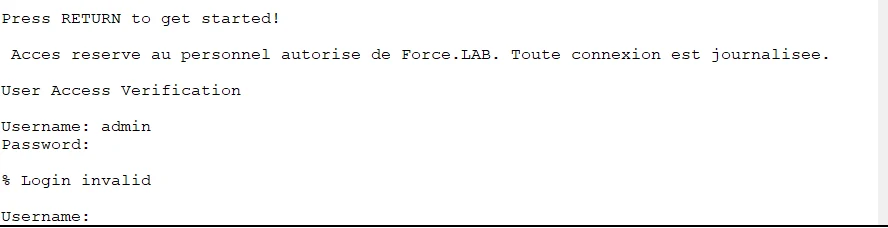
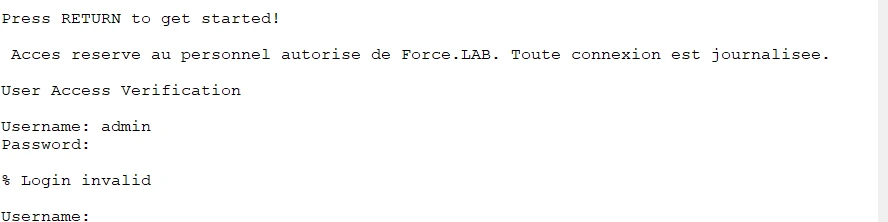
Ajout du projet Cisco Force.LAB

diff --git a/projets/cisco-forcelab-multisite.html b/projets/cisco-forcelab-multisite.html
@@ -67,6 +67,7 @@
 
 .proof-code{margin:0;padding:1.1rem 1.2rem;border-radius:18px;background:#0f172a;color:#e2e8f0;font:600 .7rem/1.6 ui-monospace,SFMono-Regular,Consolas,monospace;overflow-x:auto;white-space:pre}
 .project-section code{padding:.1rem .35rem;border-radius:6px;background:#eef3fb;font-size:.9em}
+.proof-card.wide{grid-template-columns:1fr}
 @media(max-width:1100px){.proof-card{grid-template-columns:1fr}.proof-content h3{font-size:1.25rem}}
 @media(max-width:900px){.project-hero-grid{grid-template-columns:1fr}.project-metrics{grid-template-columns:repeat(2,1fr)}.feature-grid{grid-template-columns:1fr}.gallery{grid-template-columns:1fr}.proof-group > summary{align-items:flex-start;flex-direction:column}}
 @media(max-width:580px){.project-metrics{grid-template-columns:1fr}.proof-stack{padding:1rem}.proof-card{padding:.8rem}.project-hero{padding-top:calc(var(--nav-h) + 60px)}}
@@ -94,7 +95,7 @@
 <a class="button button-secondary" href="../projets-scolaires.html">Retour aux projets</a>
 </div>
 </div>
-<div class="hero-visual"><img src="../assets/images/projects/cisco-forcelab/topologie-forcelab.webp" alt="Topologie du réseau Force.LAB : Internet, siège de Paris et agence de Lyon" width="1021" height="657"></div>
+<div class="hero-visual"><img src="../assets/images/projects/cisco-forcelab/architecture-forcelab.png" alt="Architecture du réseau Force.LAB : Internet, siège de Paris et agence de Lyon"></div>
 </div>
 
 <div class="project-metrics">
@@ -130,8 +131,8 @@
 <div class="proof-stack">
 
 <figure class="proof-card">
-<div class="proof-image"><button type="button" data-lightbox-src="../assets/images/projects/cisco-forcelab/topologie-forcelab.webp" data-lightbox-caption="Topologie finale Force.LAB dans Cisco Packet Tracer"><img src="../assets/images/projects/cisco-forcelab/topologie-forcelab.webp" alt="Topologie Force.LAB" loading="lazy" width="1021" height="657"></button><div class="proof-links"><a class="proof-link" href="../assets/images/projects/cisco-forcelab/topologie-forcelab.webp" target="_blank" rel="noopener">Ouvrir l'image</a></div></div>
-<figcaption class="proof-content"><span class="proof-index">01</span><h3>Topologie en trois zones</h3><p>Le siège est construit autour de deux cœurs reliés à chaque switch d’accès ; l’agence est reliée par deux liaisons série. Chaque VLAN a son /24, avec la passerelle toujours en .1.</p><ul class="proof-list"><li>Siège : VLAN 10 Admin, 20 Tech, 30 Serveurs, 40 Wi-Fi salariés, 50 Wi-Fi invités, 99 Management</li><li>Agence : VLAN 20 et 99 derrière R-BR</li><li>Adresses publiques prises dans les plages de documentation</li></ul><div class="proof-tags"><span class="proof-tag">Plan d’adressage</span><span class="proof-tag">VLAN</span></div></figcaption>
+<div class="proof-image"><button type="button" data-lightbox-src="../assets/images/projects/cisco-forcelab/topologie-packet-tracer.png" data-lightbox-caption="Maquette finale Force.LAB dans Cisco Packet Tracer"><img src="../assets/images/projects/cisco-forcelab/topologie-packet-tracer.png" alt="Maquette Force.LAB dans Packet Tracer" loading="lazy"></button><div class="proof-links"><a class="proof-link" href="../assets/images/projects/cisco-forcelab/topologie-packet-tracer.png" target="_blank" rel="noopener">Ouvrir l'image</a></div></div>
+<figcaption class="proof-content"><span class="proof-index">01</span><h3>Maquette Packet Tracer en trois zones</h3><p>Le siège est construit autour de deux cœurs reliés à chaque switch d’accès ; l’agence est reliée par deux liaisons série. Chaque VLAN a son /24, avec la passerelle toujours en .1.</p><ul class="proof-list"><li>Siège : VLAN 10 Admin, 20 Tech, 30 Serveurs, 40 Wi-Fi salariés, 50 Wi-Fi invités, 99 Management</li><li>Agence : VLAN 20 et 99 derrière R-BR</li><li>Adresses publiques prises dans les plages de documentation</li></ul><div class="proof-tags"><span class="proof-tag">Plan d’adressage</span><span class="proof-tag">VLAN</span></div></figcaption>
 </figure>
 
 <figure class="proof-card">
@@ -166,12 +167,12 @@ R-BR : ip route 0.0.0.0 0.0.0.0 10.0.0.13 200</pre></div>
 <div class="proof-stack">
 
 <figure class="proof-card">
-<div class="proof-image"><button type="button" data-lightbox-src="../assets/images/projects/cisco-forcelab/dhcp-pc-tech1.webp" data-lightbox-caption="PC-TECH1 reçoit sa configuration IP par DHCP"><img src="../assets/images/projects/cisco-forcelab/dhcp-pc-tech1.webp" alt="Configuration DHCP de PC-TECH1" loading="lazy" width="1053" height="370"></button><div class="proof-links"><a class="proof-link" href="../assets/images/projects/cisco-forcelab/dhcp-pc-tech1.webp" target="_blank" rel="noopener">Ouvrir l'image</a></div></div>
+<div class="proof-image"><button type="button" data-lightbox-src="../assets/images/projects/cisco-forcelab/dhcp-pc-tech1.webp" data-lightbox-caption="PC-TECH1 reçoit sa configuration IP par DHCP"><img src="../assets/images/projects/cisco-forcelab/dhcp-pc-tech1.webp" alt="Configuration DHCP de PC-TECH1" loading="lazy"></button><div class="proof-links"><a class="proof-link" href="../assets/images/projects/cisco-forcelab/dhcp-pc-tech1.webp" target="_blank" rel="noopener">Ouvrir l'image</a></div></div>
 <figcaption class="proof-content"><span class="proof-index">04</span><h3>DHCP centralisé avec relais</h3><p>Tous les pools du siège sont sur le routeur R-HQ. Les SVI des cœurs relaient les requêtes vers sa loopback, joignable par les deux cœurs ; l’agence garde un pool local pour rester autonome.</p><ul class="proof-list"><li>PC-TECH1 obtient 10.10.20.23</li><li>Passerelle : l’adresse virtuelle HSRP 10.10.20.1</li><li>DNS : le serveur interne 10.10.30.10</li></ul><div class="proof-tags"><span class="proof-tag">DHCP</span><span class="proof-tag">ip helper-address</span></div></figcaption>
 </figure>
 
 <figure class="proof-card">
-<div class="proof-image"><button type="button" data-lightbox-src="../assets/images/projects/cisco-forcelab/nat-statique-pc-ext.webp" data-lightbox-caption="Depuis Internet, PC-EXT ouvre www.force.lab"><img src="../assets/images/projects/cisco-forcelab/nat-statique-pc-ext.webp" alt="Page intranet ouverte depuis Internet" loading="lazy" width="1047" height="393"></button><div class="proof-links"><a class="proof-link" href="../assets/images/projects/cisco-forcelab/nat-statique-pc-ext.webp" target="_blank" rel="noopener">Ouvrir l'image</a></div></div>
+<div class="proof-image"><button type="button" data-lightbox-src="../assets/images/projects/cisco-forcelab/nat-statique-pc-ext.webp" data-lightbox-caption="Depuis Internet, PC-EXT ouvre www.force.lab"><img src="../assets/images/projects/cisco-forcelab/nat-statique-pc-ext.webp" alt="Page intranet ouverte depuis Internet" loading="lazy"></button><div class="proof-links"><a class="proof-link" href="../assets/images/projects/cisco-forcelab/nat-statique-pc-ext.webp" target="_blank" rel="noopener">Ouvrir l'image</a></div></div>
 <figcaption class="proof-content"><span class="proof-index">05</span><h3>Publication du serveur web par NAT statique</h3><p>Un poste situé sur Internet ouvre www.force.lab : le DNS public renvoie l’adresse 203.0.113.5, que R-HQ traduit vers le serveur interne SRV-WEB.</p><ul class="proof-list"><li>NAT statique 10.10.30.10 vers 203.0.113.5</li><li>PAT sur le pool 203.0.113.1 à .4 pour les utilisateurs</li><li>ACL anti-usurpation en entrée sur l’interface Internet</li></ul><div class="proof-tags"><span class="proof-tag">NAT / PAT</span><span class="proof-tag">DNS</span></div></figcaption>
 </figure>
 
@@ -183,17 +184,17 @@ R-BR : ip route 0.0.0.0 0.0.0.0 10.0.0.13 200</pre></div>
 <div class="proof-stack">
 
 <figure class="proof-card">
-<div class="proof-image"><button type="button" data-lightbox-src="../assets/images/projects/cisco-forcelab/wifi-ap1-staff.webp" data-lightbox-caption="Point d'accès AP-1 : SSID salariés en WPA2-PSK AES"><img src="../assets/images/projects/cisco-forcelab/wifi-ap1-staff.webp" alt="Configuration Wi-Fi de AP-1" loading="lazy" width="1050" height="426"></button><div class="proof-links"><a class="proof-link" href="../assets/images/projects/cisco-forcelab/wifi-ap1-staff.webp" target="_blank" rel="noopener">Ouvrir l'image</a></div></div>
+<div class="proof-image"><button type="button" data-lightbox-src="../assets/images/projects/cisco-forcelab/wifi-ap1-staff.webp" data-lightbox-caption="Point d'accès AP-1 : SSID salariés en WPA2-PSK AES"><img src="../assets/images/projects/cisco-forcelab/wifi-ap1-staff.webp" alt="Configuration Wi-Fi de AP-1" loading="lazy"></button><div class="proof-links"><a class="proof-link" href="../assets/images/projects/cisco-forcelab/wifi-ap1-staff.webp" target="_blank" rel="noopener">Ouvrir l'image</a></div></div>
 <figcaption class="proof-content"><span class="proof-index">06</span><h3>Wi-Fi salariés et invités séparés</h3><p>Deux SSID dans deux VLAN distincts. Les invités sont isolés par l’ACL GUEST-ISOLATION, appliquée en entrée du VLAN 50 sur les deux cœurs : ils sortent sur Internet mais n’atteignent aucun réseau interne.</p><ul class="proof-list"><li>FORCELAB-STAFF en VLAN 40, FORCELAB-GUEST en VLAN 50</li><li>WPA2-PSK avec chiffrement AES, canaux 6 et 11</li><li>Testé : l’invité atteint Internet, pas le serveur interne</li></ul><div class="proof-tags"><span class="proof-tag">Wi-Fi</span><span class="proof-tag">ACL étendue</span></div></figcaption>
 </figure>
 
 <figure class="proof-card">
-<div class="proof-image"><button type="button" data-lightbox-src="../assets/images/projects/cisco-forcelab/banniere-authentification.webp" data-lightbox-caption="Bannière légale et authentification par compte local"><img src="../assets/images/projects/cisco-forcelab/banniere-authentification.webp" alt="Bannière et authentification sur un équipement" loading="lazy" width="888" height="228"></button><div class="proof-links"><a class="proof-link" href="../assets/images/projects/cisco-forcelab/banniere-authentification.webp" target="_blank" rel="noopener">Ouvrir l'image</a></div></div>
+<div class="proof-image"><button type="button" data-lightbox-src="../assets/images/projects/cisco-forcelab/banniere-authentification.webp" data-lightbox-caption="Bannière légale et authentification par compte local"><img src="../assets/images/projects/cisco-forcelab/banniere-authentification.webp" alt="Bannière et authentification sur un équipement" loading="lazy"></button><div class="proof-links"><a class="proof-link" href="../assets/images/projects/cisco-forcelab/banniere-authentification.webp" target="_blank" rel="noopener">Ouvrir l'image</a></div></div>
 <figcaption class="proof-content"><span class="proof-index">07</span><h3>Sécurisation des équipements et des ports</h3><p>Chaque équipement exige un compte local et n’accepte l’administration à distance qu’en SSH v2, depuis les seuls VLAN Admin et Management. Les ports d’accès sont protégés contre les branchements non prévus.</p><ul class="proof-list"><li>ACL standard sur les lignes VTY</li><li>Port Security en sticky, DHCP snooping, BPDU Guard</li><li>Testé : un portable branché à la place du serveur met le port en err-disabled</li></ul><div class="proof-tags"><span class="proof-tag">SSH</span><span class="proof-tag">Port Security</span></div></figcaption>
 </figure>
 
-<figure class="proof-card">
-<div class="proof-image"><button type="button" data-lightbox-src="../assets/images/projects/cisco-forcelab/syslog-srv-infra.webp" data-lightbox-caption="Journaux des équipements reçus par SRV-INFRA"><img src="../assets/images/projects/cisco-forcelab/syslog-srv-infra.webp" alt="Serveur Syslog SRV-INFRA" loading="lazy" width="1918" height="889"></button><div class="proof-links"><a class="proof-link" href="../assets/images/projects/cisco-forcelab/syslog-srv-infra.webp" target="_blank" rel="noopener">Ouvrir l'image</a></div></div>
+<figure class="proof-card wide">
+<div class="proof-image"><button type="button" data-lightbox-src="../assets/images/projects/cisco-forcelab/syslog-srv-infra.png" data-lightbox-caption="Extrait des journaux reçus par SRV-INFRA (colonnes Time, HostName, Message)"><img src="../assets/images/projects/cisco-forcelab/syslog-srv-infra.png" alt="Extrait du journal Syslog de SRV-INFRA" loading="lazy"></button><div class="proof-links"><a class="proof-link" href="../assets/images/projects/cisco-forcelab/syslog-srv-infra.png" target="_blank" rel="noopener">Ouvrir l'image</a></div></div>
 <figcaption class="proof-content"><span class="proof-index">08</span><h3>Journaux centralisés et horodatés</h3><p>Tous les équipements envoient leurs journaux à SRV-INFRA et y prennent l’heure par NTP. Les premières lignes datent de 1993, l’horloge par défaut avant la synchronisation, ce qui montre pourquoi le NTP est indispensable pour corréler des événements.</p><ul class="proof-list"><li>logging et ntp server vers 10.10.30.20</li><li>Chaque message identifie l’équipement émetteur</li><li>LLDP activé en complément de CDP</li></ul><div class="proof-tags"><span class="proof-tag">Syslog</span><span class="proof-tag">NTP</span></div></figcaption>
 </figure>
 

diff --git a/projets-scolaires.html b/projets-scolaires.html
@@ -136,7 +136,7 @@
 </article>
 
 <article class="card project-card" data-reveal>
-<div class="project-thumb"><img src="assets/images/projects/cisco-forcelab/topologie-forcelab.webp" alt="Topologie du réseau Cisco Force.LAB multisite" loading="lazy" width="960" height="600"></div>
+<div class="project-thumb"><img src="assets/images/projects/cisco-forcelab/architecture-forcelab.png" alt="Architecture du réseau Cisco Force.LAB multisite" loading="lazy" width="1600" height="1000" style="height:182px;object-fit:contain"></div>
 <div class="project-card-body">
 <div class="card-top"><span class="badge">Réseau Cisco</span><span class="card-number">09</span></div>
 <div style="margin-bottom:.9rem"><span class="project-status">Projet terminé</span></div>
